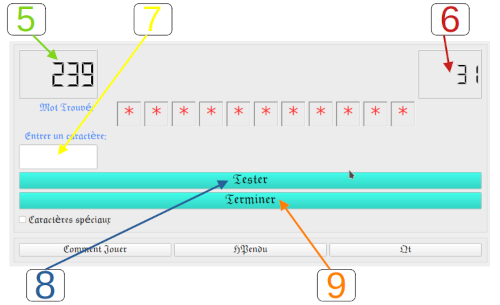
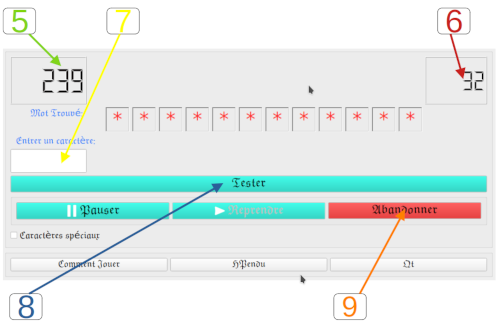
ajout d'un SLOT qui s'active quand le joueur abandonne

diff --git a/src/HPenduPropos.cpp b/src/HPenduPropos.cpp
@@ -65,10 +65,12 @@ void HPenduPropos::propos_allocationWidget()
     m_imageLogoHPendu = new QLabel;
     m_imageLogoCarotte = new QLabel;
     m_titreJeu = new QLabel("HPENDU");
-    m_labelInfo = new QLabel("HPendu est totalement gratuit");
+    m_labelInfo = new QLabel("HPendu est totalement gratuit.<br/>"
+                             "Le code source est disponible sur le github à l'adresse:<br/>"
+                             "<b>https://github.com/Herra-Dev/GamePendu</b>");
     m_labelFaireDon = new QLabel("Faire un don: ");
-    m_labelDon1 = new QLabel("<b>**</b> Vous pouvez contribuer à l'amélioration du jeu:<br>- En nous reportant les <b>bugs</b> que vous rencontrez<br>"
-                             "- En nous donnant des <b>idées d'amélioration</b><br>"
+    m_labelDon1 = new QLabel("<b>**</b> Vous pouvez contribuer à l'amélioration du jeu:<br/>- En nous reportant les <b>bugs</b> que vous rencontrez<br/>"
+                             "- En nous donnant des <b>idées d'amélioration</b><br/>"
                              "par email: ");
     m_labelEmail = new QLabel("<b>irdnarheriniaina@gmail.com</b>");
     m_labelDon2 = new QLabel("<b>**</b> Vous pouvez également montrer votre gratitude envers le développeur via airtel money: <b>+261331943883</b><br>"

diff --git a/src/HPenduFenetre.cpp b/src/HPenduFenetre.cpp
@@ -147,6 +147,7 @@ QObject::connect(m_quitter, SIGNAL(clicked(bool)), qApp, SLOT(quit()));
 QObject::connect(m_checkCarSpeciaux, SIGNAL(stateChanged(int)), this, SLOT(slot_afficherCarSpeciaux(int)));
 QObject::connect(m_tester, SIGNAL(clicked(bool)), this, SLOT(slot_testerCaractereEntre()));
 QObject::connect(m_terminer, SIGNAL(clicked(bool)), this, SLOT(slot_activerOptionTerminer()));
+QObject::connect(m_terminer, SIGNAL(clicked(bool)), this, SLOT(slot_abandonnerMessage()));
 QObject::connect(m_pauser, SIGNAL(clicked(bool)), this, SLOT(slot_pauserJeu()));
 QObject::connect(m_reprendre, SIGNAL(clicked(bool)), this, SLOT(slot_reprendreJeu()));
 }
@@ -987,4 +988,15 @@ void HPenduFenetre::slot_reprendreJeu()
     m_reprendre->setEnabled(false);
 
     m_timer->start();
+}
+
+/*************************************************************/
+/**
+ * @brief HPenduFenetre::slot_abandonnerMessage
+ *
+ * quand le joueur abandonne, on montre le mot mystere au joueur
+ */
+void HPenduFenetre::slot_abandonnerMessage()
+{
+    QMessageBox::information(this, "Information", "le mot mystère est: <b>" + m_pendu->get_m_motPioche() + "</b> !!!");
 }

diff --git a/include/HPenduFenetre.h b/include/HPenduFenetre.h
@@ -193,6 +193,7 @@ public slots:
     void slot_afficherAProposQt();
     void slot_pauserJeu();
     void slot_reprendreJeu();
+    void slot_abandonnerMessage();
 };
 
 #endif // HPENDUFENETRE_H
